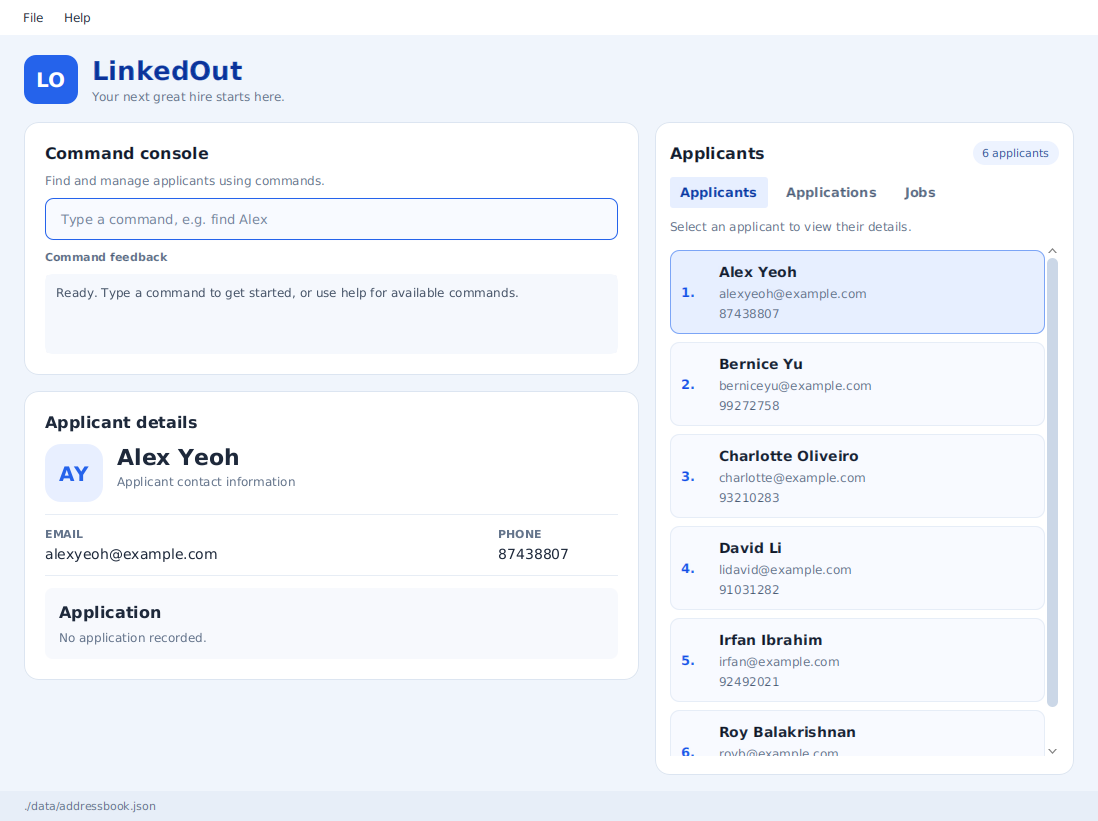
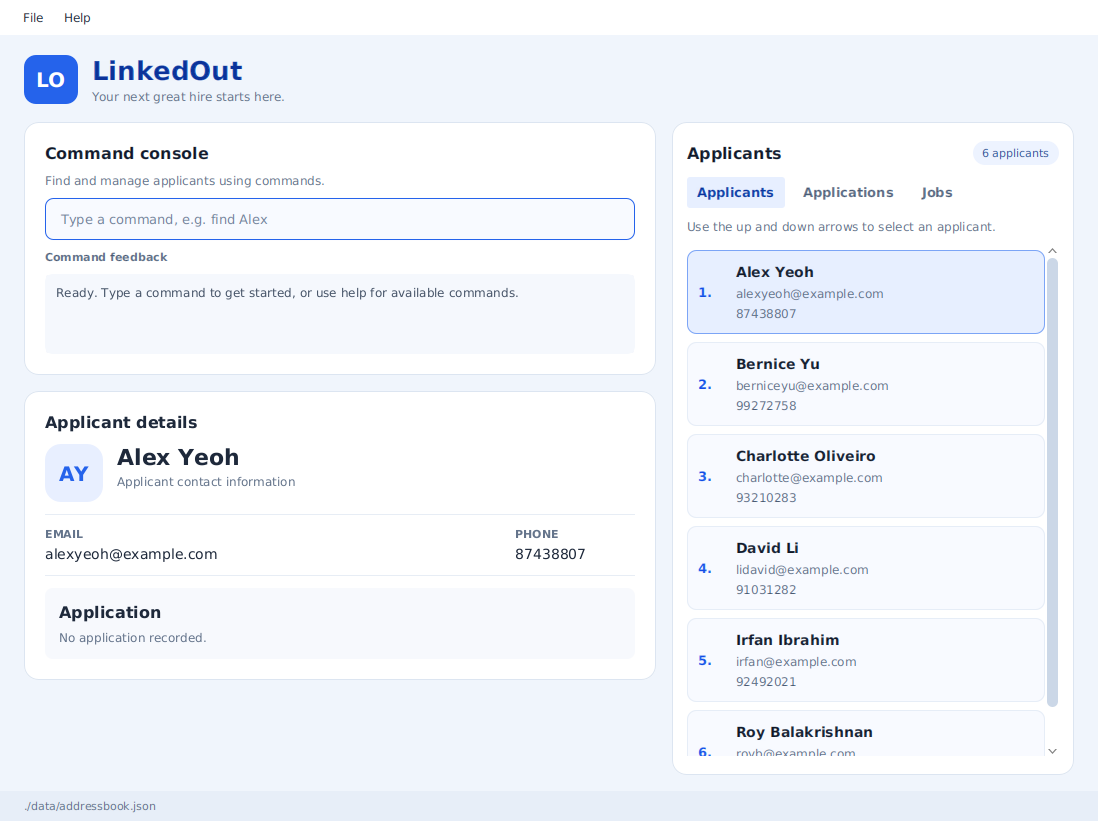
Sync guides with validation and filter fixes
The merged master accepts international phone formats and adjacent
email punctuation, but older guide bullets still reject those inputs.
Filter-result headings and invalid null-data recovery also need to
match the displayed behavior.

Remove contradictory constraints, explain the filtered applicant and
job counts, and refresh the startup and search screenshots. Preserve
the merged Unicode avatar and storage recovery notes.

Verify 67 focused tests with Java 25 and smoke-test the packaged app.

diff --git a/docs/UserGuide.md b/docs/UserGuide.md
@@ -155,9 +155,9 @@ Phone | `-p` | `-phone`
 Email | `-e` | `-email`
 
 * All three fields are required. Each option must appear exactly once and have a non-empty value.
-* Phone numbers contain only digits and must be at least three digits long. Spaces, `+`, and hyphens are not accepted.
-* The email local part contains letters and digits, optionally separated by single `+`, `_`, `.`, or `-` characters.
-  It cannot start or end with those separators. The last domain label must have at least two characters.
+* Phone numbers follow the 3-to-15-digit international/local format described above.
+* The email local part accepts the punctuation described above, including adjacent punctuation except `..`.
+  The last domain label must have at least two characters.
   These phone and email rules also apply to `edit` and saved records.
 * Short and long aliases can be mixed, and options can appear in any order.
 * Values containing spaces, such as a full name, do not need quotation marks.
@@ -200,6 +200,8 @@ Format: `viewp [INDEX]`
 * `INDEX` must be the positive applicant index printed on the application row, not its position in the applications list.
   For example, if only applicant 2 has an application, select that row with `viewp 2`.
 * The applicant filter is kept unchanged. After filtering applicants, use the indexes shown in the filtered list.
+* When filtered, the heading shows `From N out of M applicant(s)`. These numbers count applicants, including
+  those without applications; the application count badge counts the displayed applications.
 * Invalid or out-of-range indexes produce an error. An applicant without an application also produces an error.
 
 Example: `viewp 2` selects the application belonging to applicant 2 in the current applicant list.
@@ -243,6 +245,8 @@ Format: `find KEYWORD [MORE_KEYWORDS]`
 * Only full words match; for example, `Han` does not match `Hans`.
 * Applicants matching at least one keyword are returned (an `OR` search); for example, `Hans Bo` returns `Hans Gruber` and `Bo Yang`.
 * The applicant list is shown, including when jobs or applications were visible.
+* The list heading shows `Found N out of M applicant(s)` and the hint lists the search keywords.
+  Run `list` to clear the filter and return to the full applicant list.
 
 Examples:
 
@@ -421,6 +425,7 @@ Format: `viewj [INDEX]` or `viewj [-f KEYWORD]`
 * An index and `-f` cannot be used together. Filter first, then select a job from the results.
 * `-f KEYWORD` searches the combined text `ROLE : DESCRIPTION`. Matching ignores case and does not need a full word, so `jan` matches the role `Janitor`. Text found only in the description also matches. A multi-word keyword is matched as one substring.
 * Alias: `-filter` for `-f`.
+* A filtered list shows `Found N out of M job(s)` and the filter keyword in the hint. Run bare `viewj` to clear it.
 * The command word is case-sensitive. `Viewj` is not recognised.
 * `editj` and `deletej` use the index in the list currently displayed, including a filtered list.
 * `list`, `view`, `find`, `add`, `edit`, and `clear` switch the list back to applicants. `viewp` switches to applications.
@@ -485,7 +490,8 @@ while the application is closed. Back it up before making changes.
 <div markdown="span" class="alert alert-warning">:exclamation: **Caution:**
 If your changes make the data file invalid, LinkedOut starts with empty lists on the next run.
 The invalid file remains on disk until a successfully executed command saves the in-memory records over it.
-Restore your backup before continuing if your records fail to load.<br>
+Restore your backup before continuing if your records fail to load. JSON `null` as the whole file or as an
+entry in any record array is invalid too.<br>
 Values outside the accepted ranges can cause loading errors or unexpected behavior. Edit the file only if you
 are confident that you can update it correctly.
 </div>

diff --git a/docs/DeveloperGuide.md b/docs/DeveloperGuide.md
@@ -90,6 +90,11 @@ list-cell cards, JavaFX controls, and the `ListNavigation` helper are omitted fo
 list. The command box keeps keyboard focus. Text areas, copyable detail values, and other controls retain
 their normal arrow-key behavior; `MainWindow#handleListNavigation` checks the event target before navigating.
 
+`MainWindow` reads the filtered applicant and job predicates to display search-result totals and keywords.
+`NameContainsKeywordsPredicate#getKeywords` and `JobDescriptionContainsKeywordPredicate#getKeywords` expose
+those keywords. The Applications view uses the applicant predicate, so its heading reports matching applicants
+rather than the number of applications. List-change listeners refresh headings after record changes, including undo.
+
 Applicant and job detail avatars use the uppercase initial of each of the first two words.
 Initial extraction preserves complete Unicode code points, including supplementary characters.
 
@@ -153,7 +158,7 @@ undo snapshots. `Application.Status` and other value-object details are omitted 
 The `Model` component,
 
 * stores applicants, jobs, and applications in `UniqueApplicantList`, `UniqueJobList`, and `UniqueApplicationList`.
-* stores the `Applicant` objects selected by the current filter, such as search results, in a separate _filtered_ list. It exposes this list as an unmodifiable `ObservableList<Applicant>` that the UI can observe and bind to, so the UI updates when the list changes.
+* stores the `Applicant` objects selected by the current filter, such as search results, in a separate _filtered_ list. It exposes a `FilteredList<Applicant>` that the UI observes for record updates and inspects for its active predicate. Jobs have an equivalent filtered list.
 * stores a `UserPrefs` object that represents the user’s preferences (currently, just the GUI settings). This is exposed to the outside as a `ReadOnlyUserPrefs` object.
 * does not depend on any of the other three components (as the `Model` represents data entities of the domain, they should make sense on their own without depending on other components)
 
